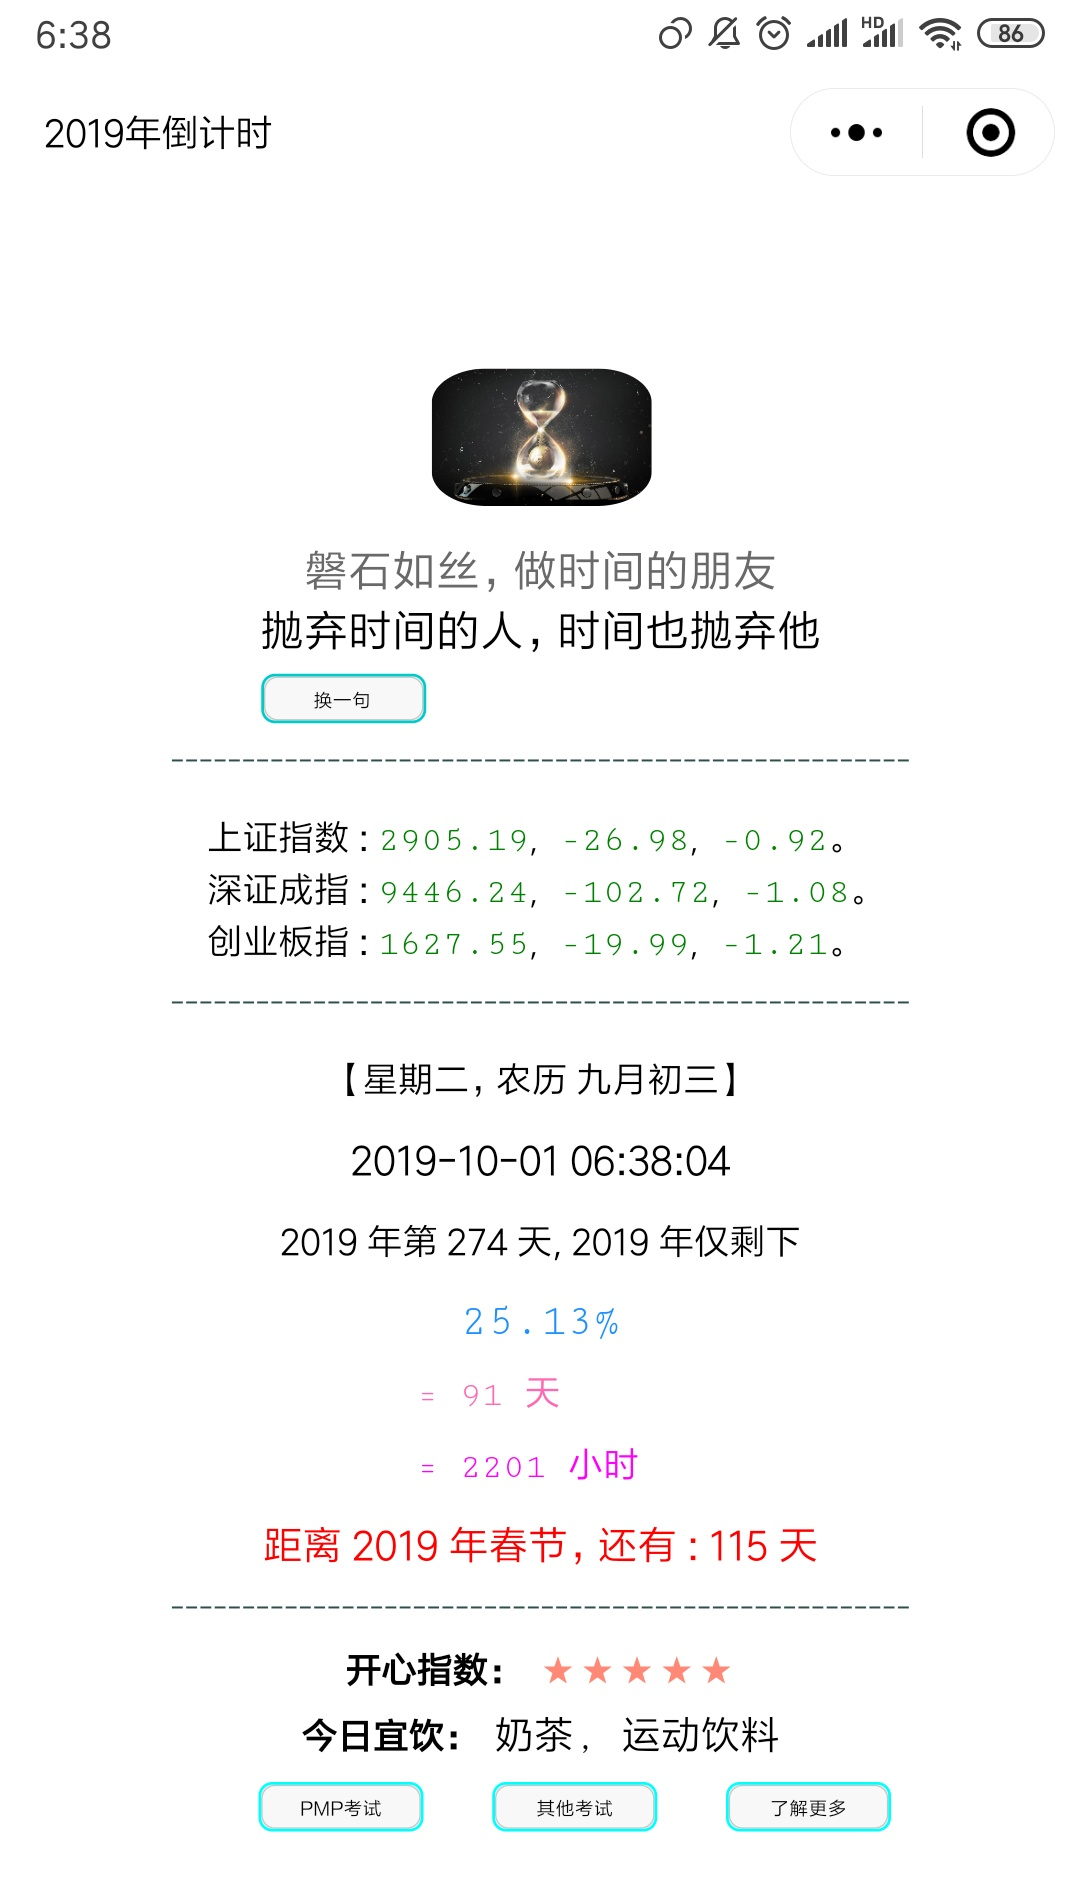
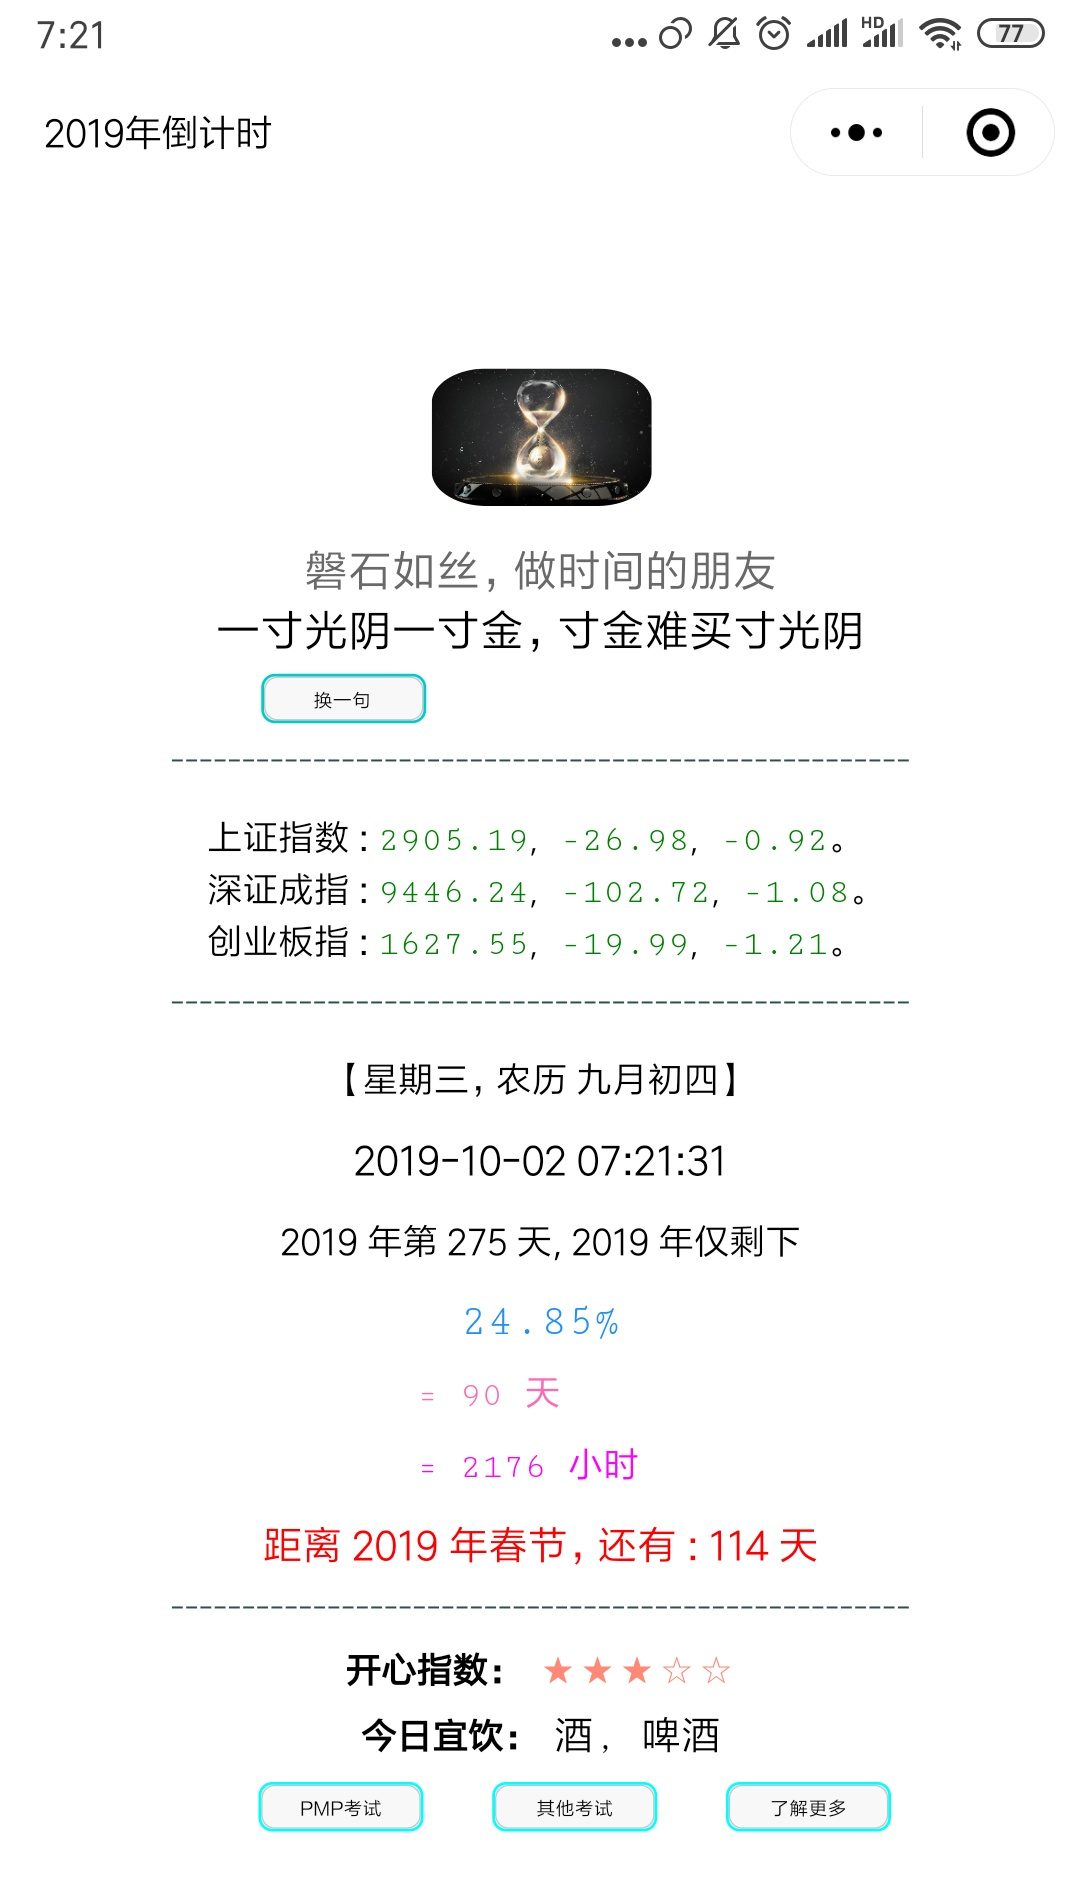
update 20191002

diff --git a/source/_posts/001_2-FD_my_life_records-2019.md b/source/_posts/001_2-FD_my_life_records-2019.md
@@ -1,5 +1,5 @@
 ---
-title: 坚持的力量之数据人生-2019年10月1日
+title: 坚持的力量之数据人生-2019年10月2日
 tags:
   - 数据人生
   - 参考模板
@@ -20,14 +20,14 @@ keywords:
   - 宽978高553
 photos:
   - '/images/001_2/photos.png'
-description: 今天：2019 年 10 月 1 日，2019 年仅剩下 91 天。坚持记录和分析生活中的数据、信息和事件，尊重历史数据、信息和事件，人生将会更美好。
-date: 2019-10-01 00:02:05
+description: 今天：2019 年 10 月 2 日，2019 年仅剩下 90 天。坚持记录和分析生活中的数据、信息和事件，尊重历史数据、信息和事件，人生将会更美好。
+date: 2019-10-02 00:02:05
 ---
 <script type="text/javascript" src="/js/src/bai.js"></script>
 
-### 坚持的力量之数据人生-2019年10月1日
+### 坚持的力量之数据人生-2019年10月2日
 ------
-> 今天：2019 年 10 月 1 日，2019 年仅剩下 91 天。坚持记录和分析生活中的数据、信息和事件，尊重历史数据、信息和事件，人生将会更美好。
+> 今天：2019 年 10 月 2 日，2019 年仅剩下 90 天。坚持记录和分析生活中的数据、信息和事件，尊重历史数据、信息和事件，人生将会更美好。
 >
 > 序言：坚持记录和分析生活中的数据、信息和事件，尊重历史数据、信息和事件，人生将会更美好。
 
@@ -72,14 +72,14 @@ date: 2019-10-01 00:02:05
 
 | 序号 |       名称                                            |  类型  | 开始/结束日期 | 总天数 |          备注                           |
 | :--: | :---------------------------------------------------: | :----: | :-----------: | :----: | :-------------------------------------: |
-|  1   | <font color="#FF0000" size=2>读书荐书第 1/4 更</font> | 倒计时 | 2020/01/01    |  92    | 开始时间：2019/10/1                     |
-|  2   | <font color="#FF0000" size=2>重要节点</font>          | 倒计时 | 2020/03/01    |  152   | 开始时间：2018/6/15 剩余 10 个月        |
-|  3   | <font color="#0000FF" size=2>来上海</font>            | 计时   | 2011/06/25    |  3020  | 第 8 年进行中                           |
-|  4   | <font color="#0000FF" size=2>莫名其妙的计时</font>    | 计时   | 2018/11/12    |  324   | 莫名其妙的计时，希望永远不会停 ！！！   |
+|  1   | <font color="#FF0000" size=2>读书荐书第 1/4 更</font> | 倒计时 | 2020/01/01    |  91    | 开始时间：2019/10/1                     |
+|  2   | <font color="#FF0000" size=2>重要节点</font>          | 倒计时 | 2020/03/01    |  151   | 开始时间：2018/6/15 剩余 10 个月        |
+|  3   | <font color="#0000FF" size=2>来上海</font>            | 计时   | 2011/06/25    |  3021  | 第 8 年进行中                           |
+|  4   | <font color="#0000FF" size=2>莫名其妙的计时</font>    | 计时   | 2018/11/12    |  325   | 莫名其妙的计时，希望永远不会停 ！！！   |
 |  5   | <font color="#FF00FF" size=2>博客总计博文</font>      | 计数   | 2018/08/01    |  207   | [博客](/archives) 博文总计数目          |
 |  6   | <font color="#FF00FF" size=2>读书心得札记</font>      | 计数   | 2018/05/26    |  69    | [读书心得笔记并做笔记](/tags/札记人生/) |
 |  7   | <font color="#FF00FF" size=2>五篇好文推荐</font>      | 计数   | 2018/10/24    |  50    | [美文推荐](/tags/美文推荐/)             |
-|  8   | <font color="#FF00FF" size=2>公众号更新</font>        | 计数   | 2018/12/01    |  124   | [微信公众号（4 篇删除）](https://mp.weixin.qq.com/s/xxIkfGMFU7BaCeCJtdrtDg) |
+|  8   | <font color="#FF00FF" size=2>公众号更新</font>        | 计数   | 2018/12/01    |  125   | [微信公众号（4 篇删除）](https://mp.weixin.qq.com/s/xxIkfGMFU7BaCeCJtdrtDg) |
 
 #### 2. ❤ 今天记账了吗？记了，✔。 ❤
 ##### 2.1 记账信息详情
@@ -87,11 +87,11 @@ date: 2019-10-01 00:02:05
 
 | 日期                                   | 记账新增记录 | 记账总记录 | 记账总天数 | 记账时间      | 备注     |
 | :------:                               | :------:     | :------:   | :------:   | :------:      | :------: |
-|<font color="#000000"> 20190927 </font> | 9            | 10937      | 3132       | 8 年零 211 天 | 无       |
 |<font color="#000000"> 20190928 </font> | 3            | 10940      | 3133       | 8 年零 212 天 | 无       |
 |<font color="#000000"> 20190929 </font> | 13           | 10953      | 3134       | 8 年零 213 天 | 无       |
 |<font color="#000000"> 20190930 </font> | 2            | 10955      | 3135       | 8 年零 214 天 | 无       |
-|<font color="#FF0000"> 20191001 </font> | 7            | 10962      | 3136       | 8 年零 215 天 | 无       |
+|<font color="#000000"> 20191001 </font> | 7            | 10962      | 3136       | 8 年零 215 天 | 无       |
+|<font color="#FF0000"> 20191002 </font> | 20           | 10982      | 3137       | 8 年零 216 天 | 无       |
 
 
 #### 3. 历史数据汇总

diff --git a/source/_posts/001_1-FD_2018_year_all_checker-2019.md b/source/_posts/001_1-FD_2018_year_all_checker-2019.md
@@ -1,5 +1,5 @@
 ---
-title: 2019年每日日常综合打卡-2019年10月1日
+title: 2019年每日日常综合打卡-2019年10月2日
 tags:
   - 数据人生
   - 参考模板
@@ -21,14 +21,14 @@ keywords:
   - 宽978高553
 photos:
   - '/images/001_1/photos.png'
-description: 今天：2019 年 10 月 1 日，2019 年仅剩下 91 天。每天坚持打卡，10 月份针对每个任务打卡，慢慢来，一切都会更好的。
-date: 2019-10-01 00:01:01
+description: 今天：2019 年 10 月 2 日，2019 年仅剩下 90 天。每天坚持打卡，10 月份针对每个任务打卡，慢慢来，一切都会更好的。
+date: 2019-10-02 00:01:01
 ---
 <script type="text/javascript" src="/js/src/bai.js"></script>
 
-### 2019年每日日常综合打卡-2019年10月1日
+### 2019年每日日常综合打卡-2019年10月2日
 ---
-> 今天：2019 年 10 月 1 日，2018 年仅剩下 91 天。每日打卡，10 月份针对每个任务打卡，慢慢来，一切都会更好的。
+> 今天：2019 年 10 月 2 日，2018 年仅剩下 90 天。每日打卡，10 月份针对每个任务打卡，慢慢来，一切都会更好的。
 ---
 
 #### [我的微信公众号](https://mp.weixin.qq.com/s/xxIkfGMFU7BaCeCJtdrtDg)
@@ -56,7 +56,7 @@ date: 2019-10-01 00:01:01
 |    | 1月   | 2月   | 3月   | 4月   | 5月   | 6月   | 7月   | 8月   | 9月   |10月   |11月   |12月   |
 |:--:|:-----:|:-----:|:-----:|:-----:|:-----:|:-----:|:-----:|:-----:|:-----:|:-----:|:-----:|:-----:|
 |  1 |二 ⭕  |五 ⭕  |五 ⭕  |一 ⭕  |三 ⭕  |六 ⭕  |一 ⭕  |四 ⭕  |日 ⭕  |二 ⭕  |五     |日     |
-|  2 |三 ⭕  |六 ⭕  |六 ⭕  |二 ⭕  |四 ⭕  |日 ⭕  |二 ⭕  |五 ⭕  |一 ⭕  |三     |六     |一     |
+|  2 |三 ⭕  |六 ⭕  |六 ⭕  |二 ⭕  |四 ⭕  |日 ⭕  |二 ⭕  |五 ⭕  |一 ⭕  |三 ⭕  |六     |一     |
 |  3 |四 ⭕  |日 ⭕  |日 ⭕  |三 ⭕  |五 ⭕  |一 ⭕  |三 ⭕  |六 ⭕  |二 ⭕  |四     |日     |二     |
 |  4 |五 ⭕  |一 ⭕  |一 ⭕  |四 ⭕  |六 ⭕  |二 ⭕  |四 ⭕  |日 ⭕  |三 ⭕  |五     |一     |三     |
 |  5 |六 ⭕  |二 ⭕  |二 ⭕  |五 ⭕  |日 ⭕  |三 ⭕  |五 ⭕  |一 ⭕  |四 ⭕  |六     |二     |四     |
@@ -94,7 +94,7 @@ date: 2019-10-01 00:01:01
 | 10 月                               |每日打卡   |2019倒计时 |札记/分析  |读书/一题  |公众号更新 |GitHub 更新|备注       |
 |:----------------------------------:|:---------:|:---------:|:---------:|:---------:|:---------:|:---------:|::---------:|
 |  1 <font color="#000000">二</font> | ⭕        | ⭕        | ⭕        | ⭕        | ⭕        | ⭕        |            |
-|  2 <font color="#000000">三</font> |           |           |           |           |           |           |            |
+|  2 <font color="#000000">三</font> | ⭕        | ⭕        | ⭕        | ⭕        | ⭕        | ⭕        |            |
 |  3 <font color="#000000">四</font> |           |           |           |           |           |           |            |
 |  4 <font color="#000000">五</font> |           |           |           |           |           |           |            |
 |  5 <font color="#FF0000">六</font> |           |           |           |           |           |           |            |

diff --git a/source/_posts/011_FQ_book_recommand.md b/source/_posts/011_FQ_book_recommand.md
@@ -22,11 +22,16 @@ photos:
   - "/images/011/006tNbRwgy1fyoh12r8ppj308504tt8l.jpg"
 description: 读书、荐书第 4 年，2019 年第 4/4 更新。管理自己的财富，本质是管理自己的知识，所以这也是我们必须要不断的读书和学习理由。
 date: 2019-10-01 06:40:40
-top: 10000010
+top: 1000010
 ---
 <script type="text/javascript" src="/js/src/bai.js"></script>
 
 #### 读书荐书之2019年第4/4更
+----
+#### 磐石读书会
+> 终于了了一个心愿的，心心念念几年的读书群成立了的，写书单，已经写了好 4 年了的，终于骨气勇气成立了这个读书群。期待你的加入。
+>
+> ![磐石读书会](/images/011/panshidushuhui.png)
 
 ------
 > 序言：管理自己的财富，本质是管理自己的知识，所以这也是我们必须要不断的读书和学习理由。
